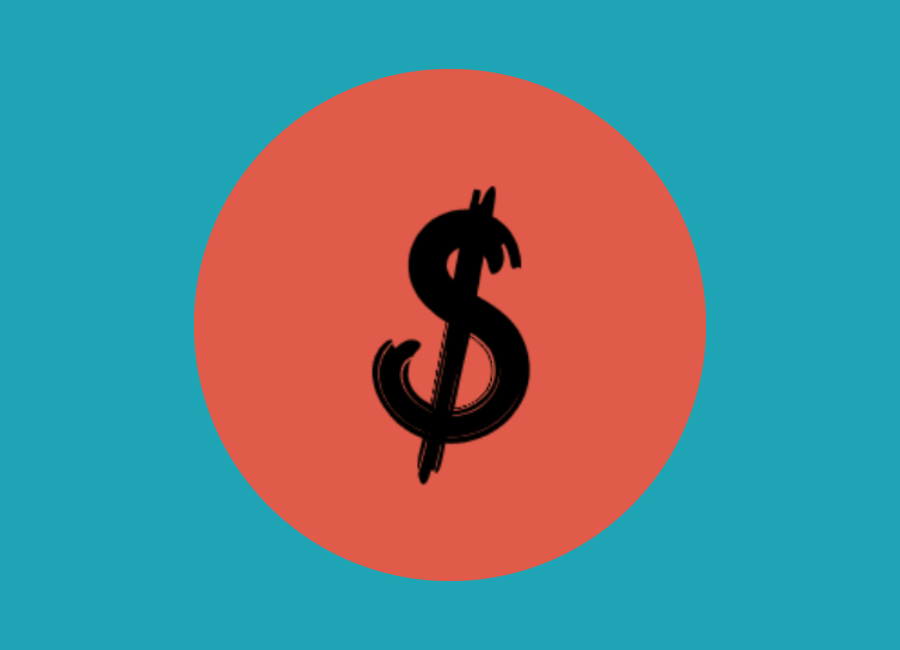
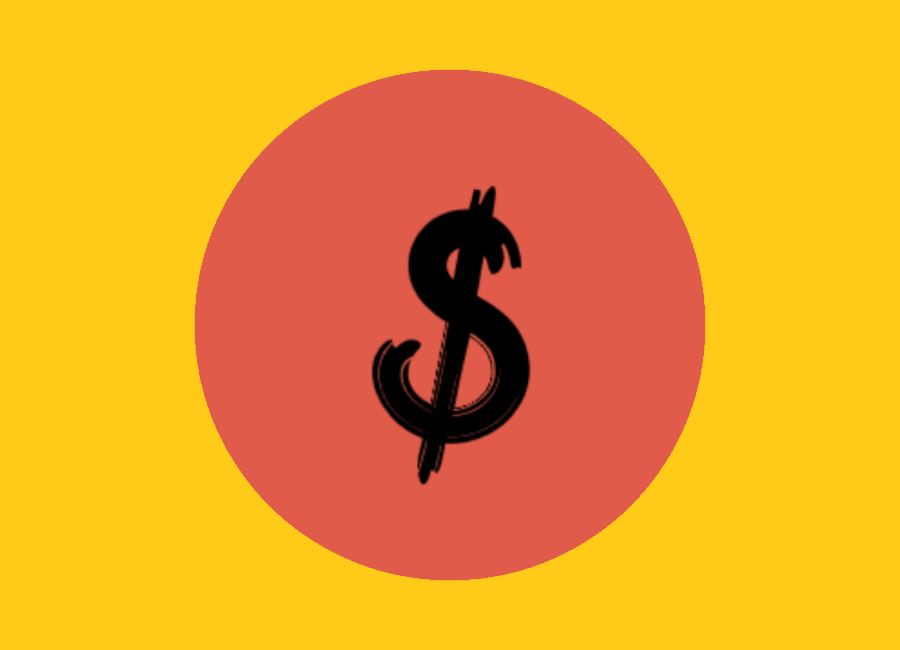
Removed contact form and tweaked colors

diff --git a/index.html b/index.html
@@ -31,7 +31,7 @@
                         <li class="nav-item mx-0 mx-lg-1"><a class="nav-link py-3 px-0 px-lg-3 rounded" href="#skills">Skills</a></li>
                         <li class="nav-item mx-0 mx-lg-1"><a class="nav-link py-3 px-0 px-lg-3 rounded" href="#projects">Projects</a></li>
                         <li class="nav-item mx-0 mx-lg-1"><a class="nav-link py-3 px-0 px-lg-3 rounded" href="#resume">Resume</a></li>
-                        <li class="nav-item mx-0 mx-lg-1"><a class="nav-link py-3 px-0 px-lg-3 rounded" href="#contact">Contact</a></li>
+                        <li class="nav-item mx-0 mx-lg-1"><a class="nav-link py-3 px-0 px-lg-3 rounded" href="#footer">Contact</a></li>
                     </ul>
                 </div>
             </div>
@@ -118,7 +118,7 @@
                         </ul>
                     </div>
                     <div class="col-lg-3 me-auto">
-                        <h3>Version Control/Other</h3>
+                        <h3>Version<br>Control/Other</h3>
                         <ul>
                             <li><h6>Git</h6></li>
                             <li><h6>GitHub</h6></li>
@@ -146,7 +146,7 @@
                     <div class="col-md-6 col-lg-4 mb-5">
                         <div class="projects-item mx-auto" data-bs-toggle="modal" data-bs-target="#projectsModal1">
                             <div class="projects-item-caption d-flex align-items-center justify-content-center h-100 w-100">
-                                <div class="projects-item-caption-content text-center text-white"><i class="fas fa-plus fa-3x"></i></div>
+                                <div class="projects-item-caption-content text-center text-white"><i class="fas fa-star fa-3x"></i></div>
                             </div>
                             <img class="img-fluid" src="assets/img/projects/trashbagninja.png" alt="..." />
                         </div>
@@ -155,7 +155,7 @@
                     <div class="col-md-6 col-lg-4 mb-5">
                         <div class="projects-item mx-auto" data-bs-toggle="modal" data-bs-target="#projectsModal2">
                             <div class="projects-item-caption d-flex align-items-center justify-content-center h-100 w-100">
-                                <div class="projects-item-caption-content text-center text-white"><i class="fas fa-plus fa-3x"></i></div>
+                                <div class="projects-item-caption-content text-center text-white"><i class="fas fa-star fa-3x"></i></div>
                             </div>
                             <img class="img-fluid" src="assets/img/projects/cake.png" alt="..." />
                         </div>
@@ -176,90 +176,19 @@
                 </div>
                 <!--Download Resume Button-->
                 <div class="text-center">
-                    <a class="btn btn-outline-light btn-xl" href="assets/Sean resume.docx" download="SeanGosha_Resume.docx">
+                    <a class="btn btn-outline-light btn-xl" href="assets/SeanGosha_Resume.docx" download="SeanGosha_Resume.docx">
                         <i class="fas fa-download me-2"></i>
                         Download Resume</a>
                 </div>
             </div>
         </section>
-        <!-- Contact Section-->
-        <section class="page-section" id="contact">
-            <div class="container">
-                <!-- Contact Section Heading-->
-                <h2 class="page-section-heading text-center text-uppercase text-secondary mb-0">Contact Me</h2>
-                <!-- Icon Divider-->
-                <div class="divider-custom">
-                    <div class="divider-custom-line"></div>
-                    <div class="divider-custom-icon"><i class="fas fa-star"></i></div>
-                    <div class="divider-custom-line"></div>
-                </div>
-                <!-- Contact Section Form-->
-                <div class="row justify-content-center">
-                    <div class="col-lg-8 col-xl-7">
-                        <!-- * * * * * * * * * * * * * * *-->
-                        <!-- * * SB Forms Contact Form * *-->
-                        <!-- * * * * * * * * * * * * * * *-->
-                        <!-- This form is pre-integrated with SB Forms.-->
-                        <!-- To make this form functional, sign up at-->
-                        <!-- https://startbootstrap.com/solution/contact-forms-->
-                        <!-- to get an API token!-->
-                        <form id="contactForm" data-sb-form-api-token="API_TOKEN">
-                            <!-- Name input-->
-                            <div class="form-floating mb-3">
-                                <input class="form-control" id="name" type="text" placeholder="Enter your name..." data-sb-validations="required" />
-                                <label for="name">Full name</label>
-                                <div class="invalid-feedback" data-sb-feedback="name:required">A name is required.</div>
-                            </div>
-                            <!-- Email address input-->
-                            <div class="form-floating mb-3">
-                                <input class="form-control" id="email" type="email" placeholder="name@example.com" data-sb-validations="required,email" />
-                                <label for="email">Email address</label>
-                                <div class="invalid-feedback" data-sb-feedback="email:required">An email is required.</div>
-                                <div class="invalid-feedback" data-sb-feedback="email:email">Email is not valid.</div>
-                            </div>
-                            <!-- Phone number input-->
-                            <div class="form-floating mb-3">
-                                <input class="form-control" id="phone" type="tel" placeholder="(123) 456-7890" data-sb-validations="required" />
-                                <label for="phone">Phone number</label>
-                                <div class="invalid-feedback" data-sb-feedback="phone:required">A phone number is required.</div>
-                            </div>
-                            <!-- Message input-->
-                            <div class="form-floating mb-3">
-                                <textarea class="form-control" id="message" type="text" placeholder="Enter your message here..." style="height: 10rem" data-sb-validations="required"></textarea>
-                                <label for="message">Message</label>
-                                <div class="invalid-feedback" data-sb-feedback="message:required">A message is required.</div>
-                            </div>
-                            <!-- Submit success message-->
-                            <!---->
-                            <!-- This is what your users will see when the form-->
-                            <!-- has successfully submitted-->
-                            <div class="d-none" id="submitSuccessMessage">
-                                <div class="text-center mb-3">
-                                    <div class="fw-bolder">Form submission successful!</div>
-                                    To activate this form, sign up at
-                                    <br />
-                                    <a href="https://startbootstrap.com/solution/contact-forms">https://startbootstrap.com/solution/contact-forms</a>
-                                </div>
-                            </div>
-                            <!-- Submit error message-->
-                            <!---->
-                            <!-- This is what your users will see when there is-->
-                            <!-- an error submitting the form-->
-                            <div class="d-none" id="submitErrorMessage"><div class="text-center text-danger mb-3">Error sending message!</div></div>
-                            <!-- Submit Button-->
-                            <button class="btn btn-primary btn-xl disabled" id="submitButton" type="submit">Send</button>
-                        </form>
-                    </div>
-                </div>
-            </div>
-        </section>
         <!-- Footer-->
-        <footer class="footer text-center">
+        <footer class="footer text-center" id="footer">
             <div class="container">
                 <div class="row">
                     <!-- Footer Location-->
                     <div class="col-lg-4 mb-5 mb-lg-0">
-                        <h4 class="text-uppercase mb-4">Location</h4>
+                        <h4 class="text-uppercase mb-4">Contact</h4>
                         <p class="lead mb-0">
                             For any questions or collaboration opportunities, feel free to reach out using the form above or via email:
                             <a href="mailto:sgosha.dev@gmail.com">sgosha.dev@gmail.com</a>

diff --git a/js/scripts.js b/js/scripts.js
@@ -29,15 +29,6 @@ window.addEventListener('DOMContentLoaded', event => {
     // Shrink the navbar when page is scrolled
     document.addEventListener('scroll', navbarShrink);
 
-    // Activate Bootstrap scrollspy on the main nav element
-    const mainNav = document.body.querySelector('#mainNav');
-    if (mainNav) {
-        new bootstrap.ScrollSpy(document.body, {
-            target: '#mainNav',
-            rootMargin: '0px 0px -40%',
-        });
-    };
-
     // Collapse responsive navbar when toggler is visible
     const navbarToggler = document.body.querySelector('.navbar-toggler');
     const responsiveNavItems = [].slice.call(
